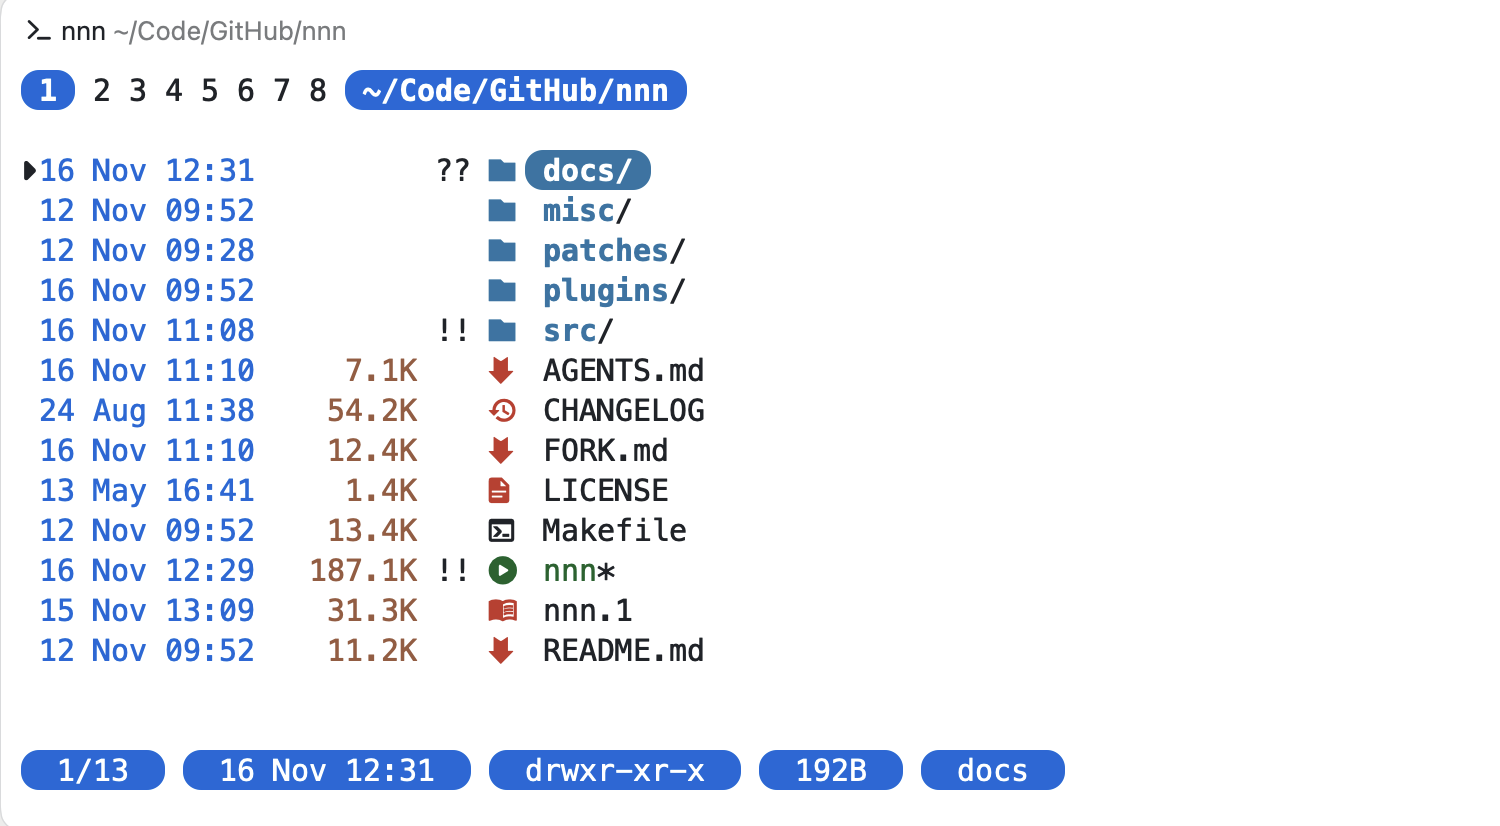
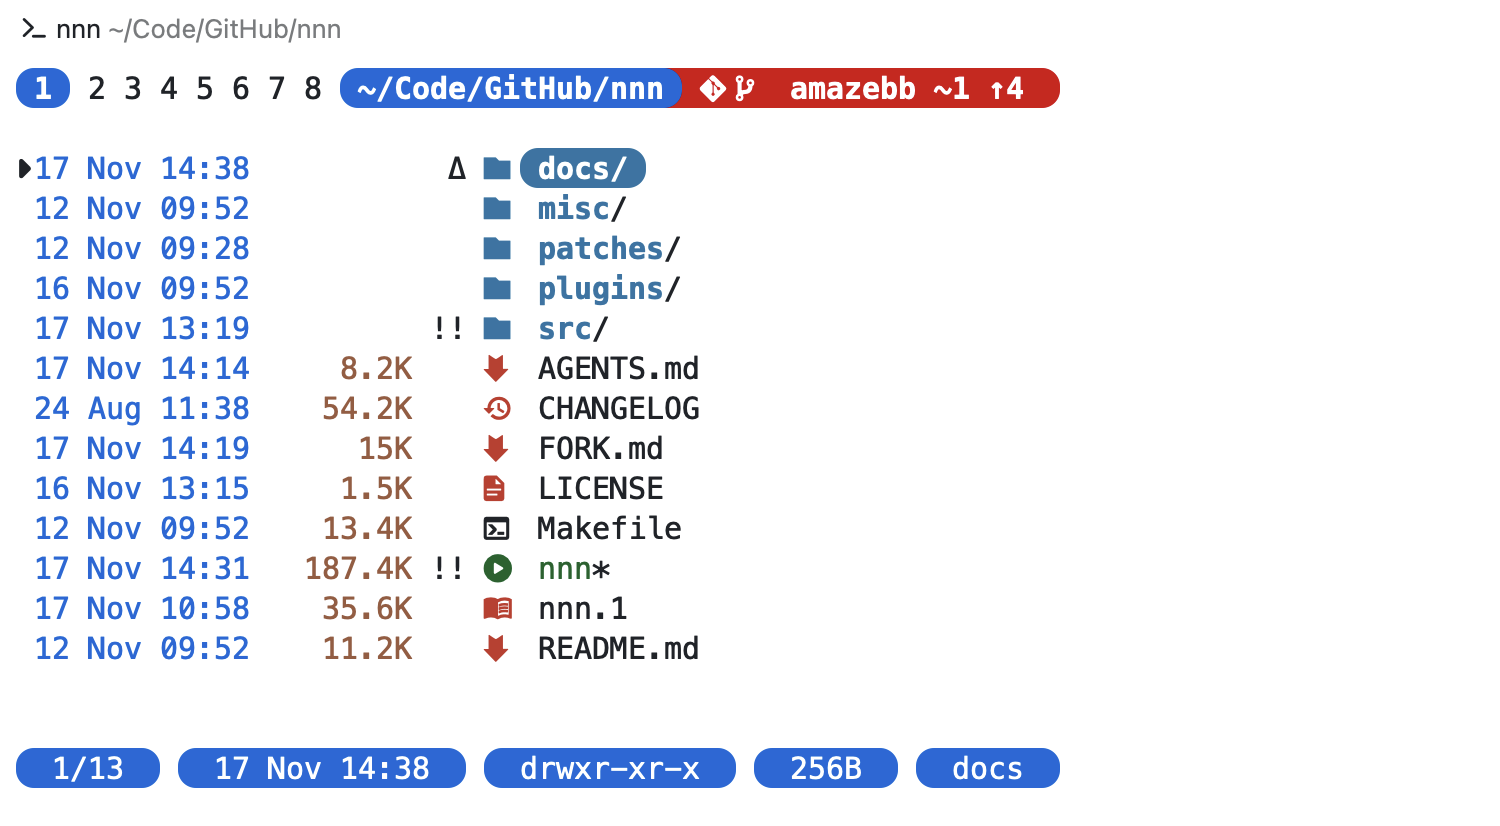
docs(web): refresh the main screenshots and reword the font caption
- recapture the dark and light listings with the git branch segment and ahead count
- say a Nerd Font is required for the pills and icons

diff --git a/docs/index.html b/docs/index.html
@@ -57,8 +57,8 @@
                 alt="nnn listing the repo root in a light terminal theme, with the context and path pills on top and the pill status bar below">
             <img class="th-dark" src="img/nnn-list-dark.png" width="750" height="413"
                 alt="nnn listing the repo root in a dark terminal theme, with the context and path pills on top and the pill status bar below">
-            <figcaption>Looks best in a terminal with a <a href="https://www.nerdfonts.com/">Nerd Font</a> compatible
-                font; the pills and icons need one.</figcaption>
+            <figcaption>A <a href="https://www.nerdfonts.com/">Nerd Font</a> is required to show the pills and icons.
+            </figcaption>
         </figure>
 
         <div class="facts">
